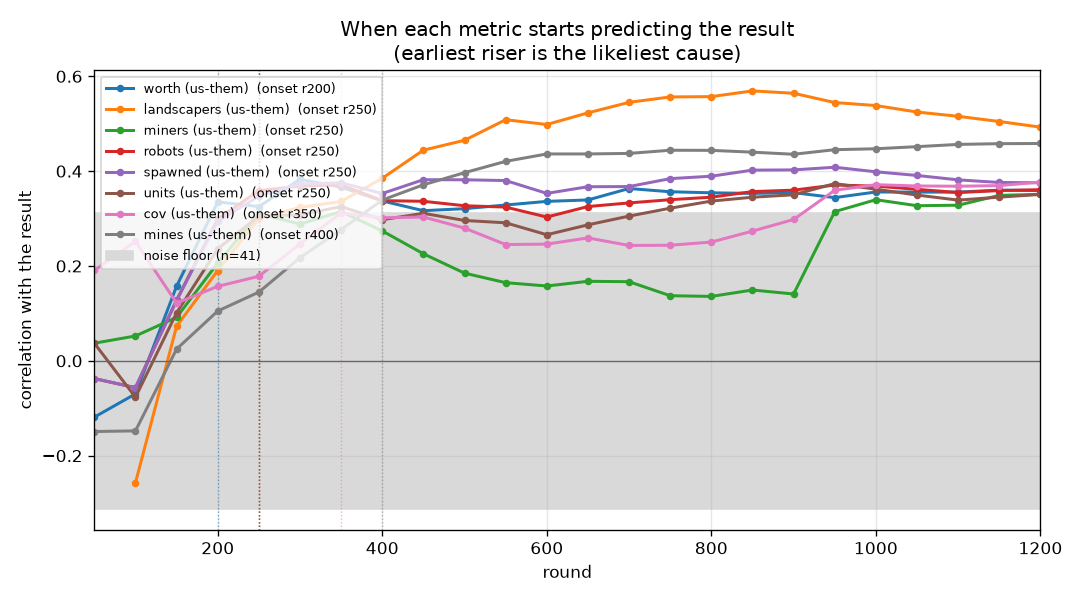
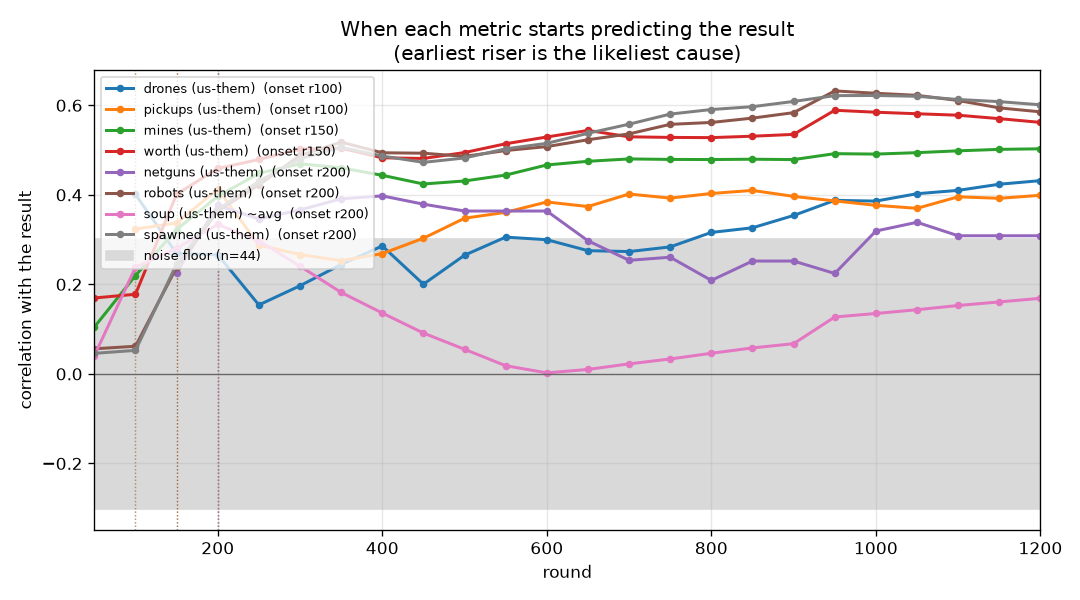
Block 41 (g_iter5 34/48 on the band); progress files
Claude-Session: https://claude.ai/code/session_015tNyF5ucwWW1mudpEQTT25

diff --git a/progress/ELO.md b/progress/ELO.md
@@ -1,83 +1,83 @@
 # Ladder
 
-2057 scrimmages (ours only), rated by a batch Bradley-Terry fit on the Elo scale (`tools/elolib.py`); each of our builds is its own player. 65 of 65 ladder bots met.
+2105 scrimmages (ours only), rated by a batch Bradley-Terry fit on the Elo scale (`tools/elolib.py`); each of our builds is its own player. 65 of 65 ladder bots met.
 
 Our builds (rating +- 95%; field score = expected score against every ladder bot, one game each):
 
 | build | rating | rank | games | record | field score |
 |---|---|---|---|---|---|
-| g_iter5 | 1690 +- 52 | 16 of 71 | 288 | 133-155 | 68.9% |
-| g_iter3 | 1689 +- 27 | 17 of 71 | 1116 | 244-872 | 68.9% |
-| iter24 | 1680 +- 124 | 18 of 71 | 48 | 11-37 | 68.2% |
-| g_iter4 | 1667 +- 60 | 20 of 71 | 228 | 46-182 | 67.2% |
-| g_iter2 | 1625 +- 64 | 21 of 71 | 204 | 47-157 | 63.8% |
-| g_iter1 | 1614 +- 68 | 22 of 71 | 173 | 97-76 | 62.8% |
+| g_iter5 | 1705 +- 47 | 16 of 71 | 336 | 167-169 | 70.1% |
+| g_iter3 | 1686 +- 27 | 17 of 71 | 1116 | 244-872 | 68.7% |
+| iter24 | 1676 +- 124 | 18 of 71 | 48 | 11-37 | 68.0% |
+| g_iter4 | 1663 +- 60 | 20 of 71 | 228 | 46-182 | 66.9% |
+| g_iter2 | 1623 +- 64 | 21 of 71 | 204 | 47-157 | 63.6% |
+| g_iter1 | 1610 +- 68 | 22 of 71 | 173 | 97-76 | 62.5% |
 
 | rank | player | rating | +- 95% | games | W-L |
 |---|---|---|---|---|---|
-| 1 | awesomelemonade.citricsky | 2322 | 199 | 124 | 122-2 |
-| 2 | uvafan.v14_final_bot | 2307 | 199 | 114 | 112-2 |
-| 3 | AngusRitossa.newbot | 2198 | 143 | 124 | 119-5 |
-| 4 | rzhan11.quals_bot | 2084 | 113 | 113 | 104-9 |
-| 5 | IvanGeffner.finalbota | 2029 | 97 | 119 | 106-13 |
-| 6 | ronniesong0809.finalbota | 2012 | 91 | 124 | 109-15 |
-| 7 | EmaPajic.Qualifications | 1966 | 85 | 118 | 100-18 |
-| 8 | winkelmantanner.tannerplayer | 1936 | 80 | 118 | 97-21 |
-| 9 | StoneT2000.FinalChowBotStable | 1919 | 268 | 9 | 8-1 |
-| 10 | mvpatel2000.qual | 1906 | 77 | 117 | 93-24 |
-| 11 | battlecode20-team4.finalbota | 1905 | 75 | 121 | 96-25 |
-| 12 | poortho.stable_seeding_bot | 1862 | 72 | 116 | 87-29 |
-| 13 | cormackikkert.whyPermutator | 1780 | 63 | 125 | 81-44 |
-| 14 | laurenschneider.pdx_team_one | 1779 | 63 | 127 | 82-45 |
-| 15 | benzyx.seeding | 1722 | 64 | 116 | 66-50 |
-| 16 | **us:g_iter5** | 1690 | 52 | 288 | 133-155 |
-| 17 | **us:g_iter3** | 1689 | 27 | 1116 | 244-872 |
-| 18 | **us:iter24** | 1680 | 124 | 48 | 11-37 |
-| 19 | wpine215.stardustv2 | 1672 | 63 | 117 | 58-59 |
-| 20 | **us:g_iter4** | 1667 | 60 | 228 | 46-182 |
-| 21 | **us:g_iter2** | 1625 | 64 | 204 | 47-157 |
-| 22 | **us:g_iter1** | 1614 | 68 | 173 | 97-76 |
-| 23 | ARognes.FinalSubmission | 1567 | 183 | 13 | 5-8 |
-| 24 | cs454-w20-team3.playbot | 1542 | 201 | 10 | 4-6 |
-| 25 | TeamSerpentine.noodleBot | 1530 | 175 | 15 | 5-10 |
-| 26 | mhahn2003.nonrush | 1526 | 134 | 27 | 9-18 |
-| 27 | WilliamYue37.Player1 | 1524 | 320 | 3 | 1-2 |
-| 28 | eggag32.BrutalPigeonBot | 1524 | 320 | 3 | 1-2 |
-| 29 | jenlz.bustedJulianbot | 1524 | 320 | 3 | 1-2 |
-| 30 | opheez.landscapers | 1524 | 320 | 3 | 1-2 |
-| 31 | ovimura.welovesoup | 1524 | 320 | 3 | 1-2 |
-| 32 | rsandzimier.SandSibs_seeding | 1524 | 320 | 3 | 1-2 |
-| 33 | thissop.alpha | 1524 | 320 | 3 | 1-2 |
-| 34 | Tim-gubski.AngryWaffleMaker | 1510 | 216 | 9 | 3-6 |
-| 35 | yaonam.Robot_1 | 1484 | 211 | 10 | 3-7 |
-| 36 | VinayaBhat.team10pdx | 1435 | 233 | 9 | 2-7 |
-| 37 | cosimogonnelli.Team3player | 1381 | 276 | 7 | 1-6 |
-| 38 | LucianCov.ourRobot | 1345 | 388 | 3 | 0-3 |
-| 39 | MrHoseongLee.Neptune_v3 | 1345 | 388 | 3 | 0-3 |
-| 40 | Phrancium.Frankplayer1 | 1345 | 388 | 3 | 0-3 |
-| 41 | Pleket.Bot | 1345 | 388 | 3 | 0-3 |
-| 42 | Strequals.rw8 | 1345 | 388 | 3 | 0-3 |
-| 43 | Sukanya-Kothapally.team4player | 1345 | 388 | 3 | 0-3 |
-| 44 | TeamSerpentine.eendagsvliegjes | 1345 | 388 | 3 | 0-3 |
-| 45 | Tolsi.mybot | 1345 | 388 | 3 | 0-3 |
-| 46 | anthonybench.FunkBot | 1345 | 388 | 3 | 0-3 |
-| 47 | atliSig.buttletplayer | 1345 | 388 | 3 | 0-3 |
-| 48 | charboltron.team11newbot | 1345 | 388 | 3 | 0-3 |
-| 49 | djkeyes.addingComm | 1345 | 388 | 3 | 0-3 |
-| 50 | fewella.FirstPlayer | 1345 | 388 | 3 | 0-3 |
-| 51 | jmerle.camel_case_sprint | 1345 | 388 | 3 | 0-3 |
-| 52 | kylittle.qualsbot2 | 1345 | 388 | 3 | 0-3 |
-| 53 | lfchain.bigBudsBot | 1345 | 388 | 3 | 0-3 |
-| 54 | luisgonzalex.CodeMonkeys | 1345 | 388 | 3 | 0-3 |
-| 55 | mama4294.maloneplayer | 1345 | 388 | 3 | 0-3 |
-| 56 | max-titov.seeding | 1345 | 388 | 3 | 0-3 |
-| 57 | michaeltliu.beginnerplayer | 1345 | 388 | 3 | 0-3 |
-| 58 | monmouth-college-cs.MyFirstPlayer | 1345 | 388 | 3 | 0-3 |
-| 59 | ngkuru.qualifyingtournament | 1345 | 388 | 3 | 0-3 |
-| 60 | orionquick.aldebaranplayer | 1345 | 388 | 3 | 0-3 |
-| 61 | snpushpi.whatamidoing | 1345 | 388 | 3 | 0-3 |
-| 62 | stevetimberman.playerbbbbb | 1345 | 388 | 3 | 0-3 |
-| 63 | willBoyd8.bb8 | 1345 | 388 | 3 | 0-3 |
+| 1 | awesomelemonade.citricsky | 2321 | 199 | 124 | 122-2 |
+| 2 | uvafan.v14_final_bot | 2306 | 199 | 114 | 112-2 |
+| 3 | AngusRitossa.newbot | 2196 | 143 | 124 | 119-5 |
+| 4 | rzhan11.quals_bot | 2082 | 113 | 113 | 104-9 |
+| 5 | IvanGeffner.finalbota | 2027 | 97 | 119 | 106-13 |
+| 6 | ronniesong0809.finalbota | 2011 | 91 | 124 | 109-15 |
+| 7 | EmaPajic.Qualifications | 1965 | 85 | 118 | 100-18 |
+| 8 | winkelmantanner.tannerplayer | 1934 | 80 | 118 | 97-21 |
+| 9 | StoneT2000.FinalChowBotStable | 1931 | 269 | 9 | 8-1 |
+| 10 | mvpatel2000.qual | 1904 | 77 | 117 | 93-24 |
+| 11 | battlecode20-team4.finalbota | 1903 | 75 | 121 | 96-25 |
+| 12 | poortho.stable_seeding_bot | 1861 | 72 | 116 | 87-29 |
+| 13 | laurenschneider.pdx_team_one | 1775 | 61 | 133 | 85-48 |
+| 14 | cormackikkert.whyPermutator | 1770 | 61 | 131 | 83-48 |
+| 15 | benzyx.seeding | 1720 | 62 | 122 | 69-53 |
+| 16 | **us:g_iter5** | 1705 | 47 | 336 | 167-169 |
+| 17 | **us:g_iter3** | 1686 | 27 | 1116 | 244-872 |
+| 18 | **us:iter24** | 1676 | 124 | 48 | 11-37 |
+| 19 | wpine215.stardustv2 | 1666 | 61 | 123 | 60-63 |
+| 20 | **us:g_iter4** | 1663 | 60 | 228 | 46-182 |
+| 21 | **us:g_iter2** | 1623 | 64 | 204 | 47-157 |
+| 22 | **us:g_iter1** | 1610 | 68 | 173 | 97-76 |
+| 23 | cs454-w20-team3.playbot | 1594 | 164 | 16 | 7-9 |
+| 24 | WilliamYue37.Player1 | 1529 | 321 | 3 | 1-2 |
+| 25 | eggag32.BrutalPigeonBot | 1529 | 321 | 3 | 1-2 |
+| 26 | jenlz.bustedJulianbot | 1529 | 321 | 3 | 1-2 |
+| 27 | opheez.landscapers | 1529 | 321 | 3 | 1-2 |
+| 28 | ovimura.welovesoup | 1529 | 321 | 3 | 1-2 |
+| 29 | rsandzimier.SandSibs_seeding | 1529 | 321 | 3 | 1-2 |
+| 30 | thissop.alpha | 1529 | 321 | 3 | 1-2 |
+| 31 | mhahn2003.nonrush | 1513 | 125 | 33 | 10-23 |
+| 32 | Tim-gubski.AngryWaffleMaker | 1511 | 217 | 9 | 3-6 |
+| 33 | ARognes.FinalSubmission | 1499 | 167 | 19 | 5-14 |
+| 34 | yaonam.Robot_1 | 1484 | 211 | 10 | 3-7 |
+| 35 | TeamSerpentine.noodleBot | 1474 | 164 | 21 | 5-16 |
+| 36 | VinayaBhat.team10pdx | 1435 | 234 | 9 | 2-7 |
+| 37 | cosimogonnelli.Team3player | 1382 | 277 | 7 | 1-6 |
+| 38 | LucianCov.ourRobot | 1349 | 389 | 3 | 0-3 |
+| 39 | MrHoseongLee.Neptune_v3 | 1349 | 389 | 3 | 0-3 |
+| 40 | Phrancium.Frankplayer1 | 1349 | 389 | 3 | 0-3 |
+| 41 | Pleket.Bot | 1349 | 389 | 3 | 0-3 |
+| 42 | Strequals.rw8 | 1349 | 389 | 3 | 0-3 |
+| 43 | Sukanya-Kothapally.team4player | 1349 | 389 | 3 | 0-3 |
+| 44 | TeamSerpentine.eendagsvliegjes | 1349 | 389 | 3 | 0-3 |
+| 45 | Tolsi.mybot | 1349 | 389 | 3 | 0-3 |
+| 46 | anthonybench.FunkBot | 1349 | 389 | 3 | 0-3 |
+| 47 | atliSig.buttletplayer | 1349 | 389 | 3 | 0-3 |
+| 48 | charboltron.team11newbot | 1349 | 389 | 3 | 0-3 |
+| 49 | djkeyes.addingComm | 1349 | 389 | 3 | 0-3 |
+| 50 | fewella.FirstPlayer | 1349 | 389 | 3 | 0-3 |
+| 51 | jmerle.camel_case_sprint | 1349 | 389 | 3 | 0-3 |
+| 52 | kylittle.qualsbot2 | 1349 | 389 | 3 | 0-3 |
+| 53 | lfchain.bigBudsBot | 1349 | 389 | 3 | 0-3 |
+| 54 | luisgonzalex.CodeMonkeys | 1349 | 389 | 3 | 0-3 |
+| 55 | mama4294.maloneplayer | 1349 | 389 | 3 | 0-3 |
+| 56 | max-titov.seeding | 1349 | 389 | 3 | 0-3 |
+| 57 | michaeltliu.beginnerplayer | 1349 | 389 | 3 | 0-3 |
+| 58 | monmouth-college-cs.MyFirstPlayer | 1349 | 389 | 3 | 0-3 |
+| 59 | ngkuru.qualifyingtournament | 1349 | 389 | 3 | 0-3 |
+| 60 | orionquick.aldebaranplayer | 1349 | 389 | 3 | 0-3 |
+| 61 | snpushpi.whatamidoing | 1349 | 389 | 3 | 0-3 |
+| 62 | stevetimberman.playerbbbbb | 1349 | 389 | 3 | 0-3 |
+| 63 | willBoyd8.bb8 | 1349 | 389 | 3 | 0-3 |
 | 64 | 9mAhmad.MahinBot | 1235 | 364 | 7 | 0-7 |
 | 65 | 9mAhmad.lostincoordinates | 1235 | 364 | 7 | 0-7 |
 | 66 | A9ine.potato | 1235 | 364 | 7 | 0-7 |

diff --git a/progress/ONSET.md b/progress/ONSET.md
@@ -1,6 +1,6 @@
 # Which metric starts predicting the result first
 
-41 games, 24 wins. Noise floor about 0.31; a correlation inside that band is not evidence.
+44 games, 33 wins. Noise floor about 0.30; a correlation inside that band is not evidence.
 
 Every metric is oriented so **higher is better for us**, so a positive correlation always means
 "this being better goes with winning". `~avg` is the running mean over all rounds so far rather than
@@ -12,46 +12,46 @@ See `progress/METRICS.md` for how each quantity is computed.
 
 | onset | anti | metric | peak corr | r100 | r200 | r300 | r400 | r600 | r900 |
 |---|---|---|---|---|---|---|---|---|---|
-| r200 | - | worth (us-them) | +0.38 | -0.07 | +0.34 | +0.38 | +0.34 | +0.34 | +0.35 |
-| r250 | - | landscapers (us-them) | +0.57 | -0.26 | +0.19 | +0.32 | +0.38 | +0.50 | +0.56 |
-| r250 | - | miners (us-them) | +0.35 | +0.05 | +0.21 | +0.29 | +0.27 | +0.16 | +0.14 |
-| r250 | - | robots (us-them) | +0.37 | -0.06 | +0.30 | +0.37 | +0.34 | +0.30 | +0.36 |
-| r250 | - | spawned (us-them) | +0.41 | -0.06 | +0.29 | +0.37 | +0.35 | +0.35 | +0.40 |
-| r250 | - | units (us-them) | +0.37 | -0.08 | +0.24 | +0.31 | +0.30 | +0.27 | +0.35 |
-| r300 | - | worth (us-them) ~avg | +0.38 | -0.08 | +0.20 | +0.33 | +0.35 | +0.35 | +0.37 |
-| r350 | - | cov (us-them) | +0.38 | +0.25 | +0.16 | +0.25 | +0.30 | +0.25 | +0.30 |
-| r350 | - | robots (us-them) ~avg | +0.38 | -0.05 | +0.15 | +0.29 | +0.33 | +0.34 | +0.36 |
-| r350 | - | spawned (us-them) ~avg | +0.40 | -0.05 | +0.15 | +0.28 | +0.33 | +0.38 | +0.40 |
-| r400 | - | landscapers (us-them) ~avg | +0.58 | -0.26 | +0.07 | +0.22 | +0.30 | +0.46 | +0.58 |
-| r400 | - | mines (us-them) | +0.46 | -0.15 | +0.10 | +0.22 | +0.34 | +0.44 | +0.44 |
-| r500 | - | cov (us-them) ~avg | +0.35 | +0.25 | +0.20 | +0.23 | +0.28 | +0.30 | +0.28 |
-| r500 | - | digs (us-them) | +0.48 | -0.14 | -0.01 | +0.12 | +0.26 | +0.36 | +0.44 |
-| r500 | - | dirtDeps (us-them) | +0.47 | -0.19 | -0.02 | +0.14 | +0.25 | +0.35 | +0.42 |
-| r550 | - | mines (us-them) ~avg | +0.45 | -0.16 | +0.01 | +0.14 | +0.22 | +0.34 | +0.42 |
-| r550 | - | units (us-them) ~avg | +0.37 | -0.04 | +0.12 | +0.23 | +0.28 | +0.31 | +0.33 |
-| r650 | - | digs (us-them) ~avg | +0.44 | -0.14 | -0.04 | +0.06 | +0.17 | +0.29 | +0.38 |
-| r650 | - | dirtDeps (us-them) ~avg | +0.43 | -0.19 | -0.05 | +0.06 | +0.16 | +0.28 | +0.36 |
-| r800 | - | pickups (us-them) | +0.35 | . | -0.05 | +0.05 | +0.09 | +0.24 | +0.31 |
-| r1050 | - | vaporators (us-them) | +0.32 | +0.27 | +0.03 | +0.09 | +0.17 | +0.23 | +0.27 |
-| r1200 | - | pickups (us-them) ~avg | +0.30 | . | -0.06 | +0.03 | +0.06 | +0.17 | +0.25 |
-| - | - | aba (us-them) [inverted] | -0.24 | -0.24 | -0.19 | -0.20 | -0.05 | +0.07 | -0.10 |
-| - | - | aba (us-them) [inverted] ~avg | -0.22 | -0.22 | -0.19 | -0.21 | -0.16 | -0.02 | -0.02 |
-| - | - | died (us-them) [inverted] | +0.14 | . | +0.13 | -0.00 | +0.05 | -0.07 | -0.08 |
-| - | - | died (us-them) [inverted] ~avg | +0.15 | . | +0.13 | +0.05 | +0.05 | -0.05 | -0.08 |
-| - | - | drones (us-them) | +0.22 | +0.14 | +0.04 | -0.13 | -0.13 | -0.09 | +0.04 |
-| - | - | drones (us-them) ~avg | +0.14 | +0.14 | +0.07 | -0.11 | -0.12 | -0.10 | -0.05 |
+| r100 | - | drones (us-them) | +0.43 | +0.40 | +0.27 | +0.20 | +0.29 | +0.30 | +0.35 |
+| r100 | - | drones (us-them) ~avg | +0.40 | +0.40 | +0.30 | +0.25 | +0.24 | +0.26 | +0.25 |
+| r100 | - | pickups (us-them) | +0.41 | +0.32 | +0.41 | +0.27 | +0.27 | +0.38 | +0.40 |
+| r100 | - | pickups (us-them) ~avg | +0.40 | +0.32 | +0.40 | +0.34 | +0.28 | +0.31 | +0.33 |
+| r150 | - | mines (us-them) | +0.50 | +0.22 | +0.40 | +0.47 | +0.44 | +0.47 | +0.48 |
+| r150 | - | worth (us-them) | +0.59 | +0.18 | +0.46 | +0.50 | +0.48 | +0.53 | +0.54 |
+| r200 | - | netguns (us-them) | +0.40 | . | +0.38 | +0.37 | +0.40 | +0.36 | +0.25 |
+| r200 | - | netguns (us-them) ~avg | +0.41 | . | +0.38 | +0.37 | +0.39 | +0.40 | +0.37 |
+| r200 | - | robots (us-them) | +0.63 | +0.06 | +0.36 | +0.49 | +0.49 | +0.51 | +0.58 |
+| r200 | - | soup (us-them) ~avg | +0.33 | +0.24 | +0.33 | +0.24 | +0.14 | +0.00 | +0.07 |
+| r200 | - | spawned (us-them) | +0.62 | +0.05 | +0.37 | +0.48 | +0.49 | +0.52 | +0.61 |
+| r200 | - | worth (us-them) ~avg | +0.59 | +0.12 | +0.34 | +0.42 | +0.45 | +0.48 | +0.51 |
+| r250 | - | landscapers (us-them) | +0.66 | -0.04 | +0.20 | +0.40 | +0.49 | +0.54 | +0.65 |
+| r250 | - | mines (us-them) ~avg | +0.47 | +0.15 | +0.27 | +0.36 | +0.40 | +0.42 | +0.44 |
+| r250 | - | units (us-them) | +0.64 | +0.04 | +0.25 | +0.43 | +0.45 | +0.45 | +0.58 |
+| r300 | - | digs (us-them) | +0.70 | +0.03 | +0.20 | +0.32 | +0.44 | +0.55 | +0.69 |
+| r300 | - | dirtDeps (us-them) | +0.69 | +0.12 | +0.22 | +0.31 | +0.40 | +0.52 | +0.65 |
+| r300 | - | robots (us-them) ~avg | +0.60 | +0.02 | +0.18 | +0.33 | +0.43 | +0.47 | +0.52 |
+| r300 | - | spawned (us-them) ~avg | +0.59 | +0.01 | +0.18 | +0.32 | +0.42 | +0.46 | +0.52 |
+| r350 | - | units (us-them) ~avg | +0.57 | -0.04 | +0.08 | +0.23 | +0.35 | +0.40 | +0.46 |
+| r350 | - | vaporators (us-them) | +0.52 | -0.17 | +0.22 | +0.26 | +0.36 | +0.51 | +0.43 |
+| r400 | - | landscapers (us-them) ~avg | +0.65 | -0.09 | +0.06 | +0.19 | +0.34 | +0.43 | +0.57 |
+| r450 | - | digs (us-them) ~avg | +0.68 | -0.01 | +0.10 | +0.20 | +0.30 | +0.40 | +0.57 |
+| r450 | - | dirtDeps (us-them) ~avg | +0.64 | +0.08 | +0.13 | +0.21 | +0.28 | +0.36 | +0.52 |
+| r450 | - | vaporators (us-them) ~avg | +0.52 | -0.17 | +0.14 | +0.21 | +0.29 | +0.48 | +0.49 |
+| r500 | - | moves (us-them) | +0.50 | -0.09 | +0.02 | +0.14 | +0.22 | +0.34 | +0.38 |
+| r550 | - | moves (us-them) ~avg | +0.46 | -0.04 | +0.03 | +0.12 | +0.18 | +0.32 | +0.35 |
+| r700 | - | cov (us-them) | +0.39 | -0.20 | -0.18 | -0.10 | +0.06 | +0.29 | +0.33 |
+| r1000 | - | miners (us-them) | +0.31 | +0.03 | +0.10 | +0.23 | +0.16 | +0.18 | +0.20 |
+| - | r1100 | aba (us-them) [inverted] | -0.37 | -0.13 | -0.17 | -0.07 | -0.04 | -0.16 | -0.24 |
+| - | - | aba (us-them) [inverted] ~avg | -0.29 | -0.07 | -0.15 | -0.12 | -0.09 | -0.10 | -0.16 |
+| - | - | cov (us-them) ~avg | +0.30 | -0.19 | -0.19 | -0.16 | -0.11 | +0.10 | +0.18 |
+| - | - | died (us-them) [inverted] | -0.25 | +0.05 | -0.01 | +0.04 | +0.09 | +0.04 | -0.15 |
+| - | - | died (us-them) [inverted] ~avg | -0.18 | +0.07 | -0.01 | +0.02 | +0.07 | +0.07 | -0.17 |
 | - | - | drowned (us-them) [inverted] | . | . | . | . | . | . | . |
 | - | - | drowned (us-them) [inverted] ~avg | . | . | . | . | . | . | . |
 | - | - | hqBuried (us-them) [inverted] | . | . | . | . | . | . | . |
 | - | - | hqBuried (us-them) [inverted] ~avg | . | . | . | . | . | . | . |
-| - | - | miners (us-them) ~avg | +0.28 | +0.05 | +0.12 | +0.23 | +0.27 | +0.25 | +0.20 |
-| - | - | moves (us-them) | +0.28 | +0.20 | +0.00 | +0.16 | +0.15 | +0.09 | +0.06 |
-| - | - | moves (us-them) ~avg | +0.28 | +0.25 | +0.01 | +0.12 | +0.14 | +0.13 | +0.06 |
-| - | - | netguns (us-them) | +0.30 | . | +0.22 | +0.17 | +0.08 | +0.11 | +0.25 |
-| - | - | netguns (us-them) ~avg | +0.22 | . | +0.22 | +0.19 | +0.15 | +0.12 | +0.15 |
-| - | - | soup (us-them) | +0.28 | -0.05 | +0.10 | +0.28 | +0.17 | +0.14 | +0.13 |
-| - | - | soup (us-them) ~avg | +0.30 | -0.02 | -0.00 | +0.27 | +0.30 | +0.15 | +0.18 |
-| - | - | vaporators (us-them) ~avg | +0.29 | +0.27 | +0.15 | +0.09 | +0.14 | +0.21 | +0.26 |
+| - | - | miners (us-them) ~avg | +0.26 | -0.03 | +0.01 | +0.12 | +0.17 | +0.22 | +0.21 |
+| - | - | soup (us-them) | +0.35 | +0.35 | +0.20 | +0.17 | +0.03 | -0.06 | +0.12 |
 
 **Reading it.** Earliest onset is the first place to look: temporal precedence is the one causal hint a
 correlation can honestly give. Late-onset metrics are usually the scoreboard rather than the cause -- by then

diff --git a/BENCHMARK.md b/BENCHMARK.md
@@ -47,7 +47,7 @@ every recorded block; the tier is the most recent build's record against that op
 | `9mAhmad.MahinBot` | 9mAhmad_MahinBot (d453c11) | 100 | 2 | solved | 100 100 |
 | `9mAhmad.lostincoordinates` | 9mAhmad_lostincoordinates (1696925) | 100 | 2 | solved | 100 100 |
 | `A9ine.potato` | A9ine_Battlecode-Hashbrowns (759bee2) | 100 | 2 | solved | 100 100 |
-| `ARognes.FinalSubmission` | ARognes_Battlecode (2ebba1e) | 62 | 8 | peer | 60 62 |
+| `ARognes.FinalSubmission` | ARognes_Battlecode (2ebba1e) | 79 | 14 | peer | 60 79 |
 | `ARognes.MinerPathfinding` | ARognes_Battlecode (2ebba1e) | - | - | untested |  |
 | `ARognes.TurtleBot` | ARognes_Battlecode (2ebba1e) | - | - | untested |  |
 | `ARognes.communication` | ARognes_Battlecode (2ebba1e) | - | - | untested |  |
@@ -137,7 +137,7 @@ every recorded block; the tier is the most recent build's record against that op
 | `Strequals.rw_jammer` | Strequals_Battlecode2020 (228cc25) | - | - | untested |  |
 | `Sukanya-Kothapally.team4player` | Sukanya-Kothapally_MIT-Battlecode20-RADS (c18961f) | 100 | 2 | solved | 100 100 |
 | `TeamSerpentine.lectureplayer` | TeamSerpentine_battlecode-2020-noodles (816ad6f) | - | - | untested |  |
-| `TeamSerpentine.noodleBot` | TeamSerpentine_battlecode-2020-noodles (816ad6f) | 75 | 8 | peer | 50 67 75 |
+| `TeamSerpentine.noodleBot` | TeamSerpentine_battlecode-2020-noodles (816ad6f) | 86 | 14 | peer | 50 67 86 |
 | `TeamSerpentine.eendagsvliegjes` | TeamSerpentine_battlecode-2020-snakeeyes (9b812b2) | 100 | 2 | solved | 100 100 |
 | `TeamSerpentine.serpentineSnakeEyes` | TeamSerpentine_battlecode-2020-snakeeyes (9b812b2) | - | - | untested |  |
 | `Tim-gubski.AngryWaffleMaker` | Tim-gubski_BattleCode-2020 (c252b31) | 50 | 2 | peer | 50 100 50 |
@@ -170,15 +170,15 @@ every recorded block; the tier is the most recent build's record against that op
 | `benzyx.espada` | benzyx_bc20-waterloo (05df2e7) | - | - | untested |  |
 | `benzyx.firstplayer` | benzyx_bc20-waterloo (05df2e7) | - | - | untested |  |
 | `benzyx.kurobot` | benzyx_bc20-waterloo (05df2e7) | - | - | untested |  |
-| `benzyx.seeding` | benzyx_bc20-waterloo (05df2e7) | 47 | 15 | target | 25 17 50 40 25 47 |
+| `benzyx.seeding` | benzyx_bc20-waterloo (05df2e7) | 48 | 21 | target | 25 17 50 40 25 48 |
 | `benzyx.tortuga` | benzyx_bc20-waterloo (05df2e7) | - | - | untested |  |
 | `charboltron.master_player` | charboltron_pdx_battlecode_2020_team_11 (f78f1e3) | - | - | untested |  |
 | `charboltron.team11newbot` | charboltron_pdx_battlecode_2020_team_11 (f78f1e3) | 100 | 2 | solved | 100 100 |
-| `cormackikkert.whyPermutator` | cormackikkert_battlecode2020 (4d230c4) | 39 | 18 | target | 25 17 38 40 25 39 |
+| `cormackikkert.whyPermutator` | cormackikkert_battlecode2020 (4d230c4) | 46 | 24 | target | 25 17 38 40 25 46 |
 | `cormackikkert.whyPermutatorOld` | cormackikkert_battlecode2020 (4d230c4) | - | - | untested |  |
 | `cosimogonnelli.Team3player` | cosimogonnelli_CS454-554-SE (d7dc657) | 100 | 2 | peer(>90 once) | 80 100 |
 | `cs454-w20-team3.oldbot` | cs454-w20-team3_team3-bot (502c334) | - | - | untested |  |
-| `cs454-w20-team3.playbot` | cs454-w20-team3_team3-bot (502c334) | 83 | 6 | peer | 25 83 |
+| `cs454-w20-team3.playbot` | cs454-w20-team3_team3-bot (502c334) | 50 | 6 | peer | 25 83 50 |
 | `cs454-w20-team3.team3player` | cs454-w20-team3_team3-bot (502c334) | - | - | untested |  |
 | `denver-blake.sprint` | denver-blake_Battlecode2020 (1b4a631) | 100 | 2 | solved | 100 100 |
 | `djkeyes.addingComm` | djkeyes_battlecode20-scaffold (189c057) | 100 | 2 | solved | 100 100 |
@@ -202,7 +202,7 @@ every recorded block; the tier is the most recent build's record against that op
 | `kylittle.deliriumv1` | kylittle_DeliriumBattlecode (17a94dd) | - | - | untested |  |
 | `kylittle.qualsbot` | kylittle_DeliriumBattlecode (17a94dd) | - | - | untested |  |
 | `kylittle.qualsbot2` | kylittle_DeliriumBattlecode (17a94dd) | 100 | 2 | solved | 100 100 |
-| `laurenschneider.pdx_team_one` | laurenschneider_battlecode20-PDXTeamOne (2965376) | 38 | 16 | target | 0 50 39 14 0 38 |
+| `laurenschneider.pdx_team_one` | laurenschneider_battlecode20-PDXTeamOne (2965376) | 41 | 22 | target | 0 50 39 14 0 41 |
 | `lfchain.bigBudsBot` | lfchain_Battlecode2020 (b026153) | 100 | 2 | solved | 100 100 |
 | `lfchain.fBot` | lfchain_Battlecode2020 (b026153) | - | - | untested |  |
 | `lfchain.jBot` | lfchain_Battlecode2020 (b026153) | - | - | untested |  |
@@ -222,7 +222,7 @@ every recorded block; the tier is the most recent build's record against that op
 | `max-titov.turtlebot` | max-titov_2020.battlecode-KFA (496103d) | - | - | untested |  |
 | `mhahn2003.bot01` | mhahn2003_bc20 (7475d5e) | - | - | untested |  |
 | `mhahn2003.lectureplayer` | mhahn2003_bc20 (7475d5e) | - | - | untested |  |
-| `mhahn2003.nonrush` | mhahn2003_bc20 (7475d5e) | 100 | 6 | peer(>90 once) | 25 58 80 100 |
+| `mhahn2003.nonrush` | mhahn2003_bc20 (7475d5e) | 92 | 12 | peer(>90 once) | 25 58 80 92 |
 | `mhahn2003.pure_teraform` | mhahn2003_bc20 (7475d5e) | - | - | untested |  |
 | `mhahn2003.rngform` | mhahn2003_bc20 (7475d5e) | - | - | untested |  |
 | `mhahn2003.rush` | mhahn2003_bc20 (7475d5e) | - | - | untested |  |
@@ -327,7 +327,7 @@ every recorded block; the tier is the most recent build's record against that op
 | `willBoyd8.mouse` | willBoyd8_BattleDroid (4b1d4ad) | - | - | untested |  |
 | `winkelmantanner.tannerplayer` | winkelmantanner_battlecode2020_the-levee-builders (7f49f11) | 36 | 11 | target | 0 25 15 23 0 36 |
 | `wpine215.stardustv1` | wpine215_battlecode (d570d57) | - | - | untested |  |
-| `wpine215.stardustv2` | wpine215_battlecode (d570d57) | 50 | 6 | peer | 0 30 50 65 100 50 |
+| `wpine215.stardustv2` | wpine215_battlecode (d570d57) | 58 | 12 | peer | 0 30 50 65 100 58 |
 | `yaonam.Robot_1` | yaonam_battlecode2020 (bb363f5) | 100 | 2 | peer(>90 once) | 62 100 |
 
 285 bot packages from 68 repositories.

diff --git a/HANDOFF.md b/HANDOFF.md
@@ -10,7 +10,7 @@ Read `CLAUDE.md`, then `TRAINING_ALGORITHM.md`, `RULES.md`, this file, then the 
   220). Ratings are now a batch Bradley-Terry fit with each build its own player (`tools/elolib.py`); the old
   sequential Elo had put us at rank 4 after the easy calibration games. True grade: g_iter5 1684 +- 60, rank 16 of
   71 players (15th of 65 bots plus our builds), level with g_iter3 (1693 +- 27). Withdrawal now compares ratings.
-- **Running on the VM:** block 41 (`tools/scrim.sh`, BOT=g_iter5, N=48, the band) and `gate28` (Iteration 28, the
+- **Running on the VM:** block 42 (`tools/scrim.sh`, BOT=g_iter5, N=48, the band) and `gate28` (Iteration 28, the
   path-cut builder rule in `src/bot`, mirror vs g_iter5). Post blocks with `tools/post-block.sh <run> g_iter5`, then
   keep running band blocks; the session loop is `/loop 30m task
   check. If the VM is idle and nothing is in the workqueue, start a new idea. Otherwise, carry on as before`.

diff --git a/TRAINING_LOG.md b/TRAINING_LOG.md
@@ -1117,6 +1117,10 @@ binding constraint is income: five miners sit idle with twelve soup tiles in mem
 map's soup lies up a staircase of 3-high steps. Why they do not walk there is the open question
 of the map-dead line. **Not gated; `src/bot` back to g_iter5.** Kind: uninformative as built.
 
+## Block 41 -- g_iter5 on the band (run 20260924-143804-scrim-g_iter5, 2026-09-24)
+
+48 games: **34/48 (71%)**. g_iter5 now 1705 +- 47, rank 16 of 71, field score 70.1%. Block 42 running.
+
 ## Iteration 28 -- a building must not cut the miners' path (2026-09-24)
 
 **Trace** (open line 1, map-dead games; `diag/iter27-Climb.bc20`, miner #12659): Climb gives each
